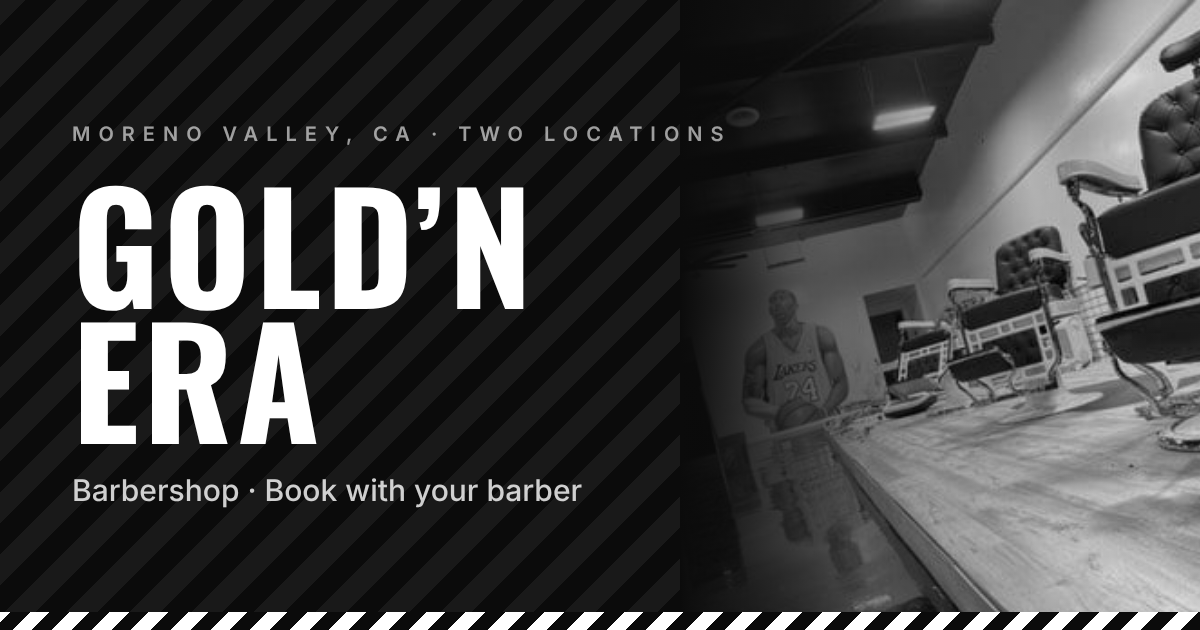
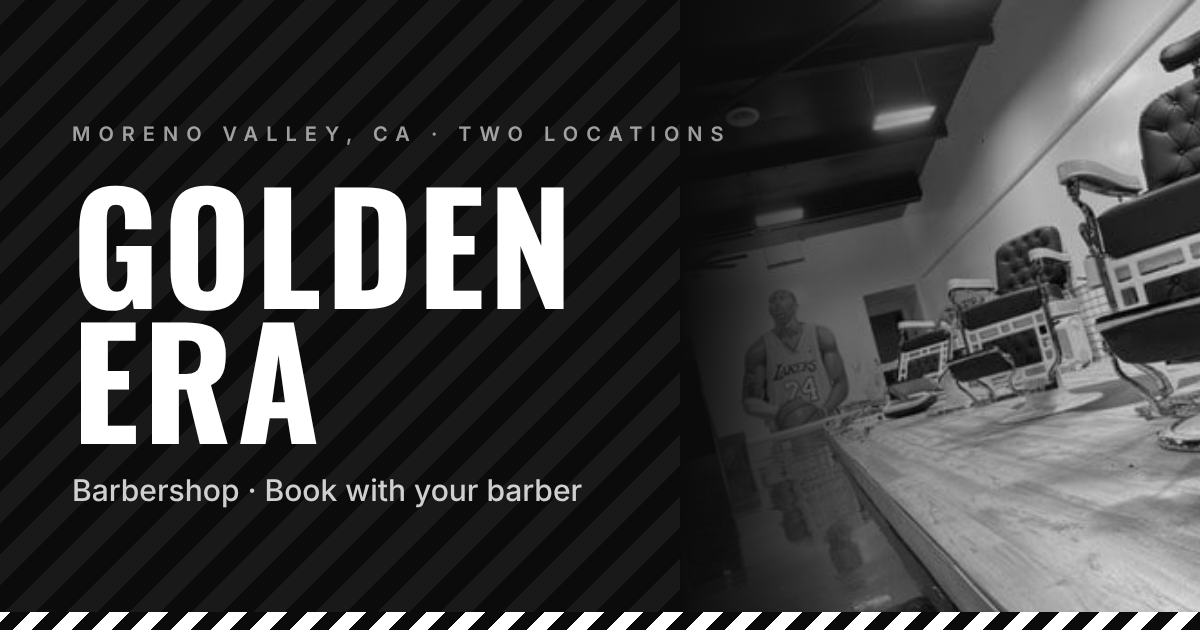
Rename brand to Golden Era Barbershop
Matches the shop's existing name and logo. Updates the header wordmark,
hero, page titles, link preview image and alt text. The repo and Worker
names stay as they are.

Claude-Session: https://claude.ai/code/session_01E3N2ox5rUphahnVQbjTReu

Changed region(s): [[0.3392, 0.3016, 0.4933, 0.5127]]

diff --git a/src/lib/shop.ts b/src/lib/shop.ts
@@ -36,8 +36,8 @@ export type Review = {
 export const siteUrl = (process.env.NEXT_PUBLIC_SITE_URL ?? "http://localhost:3000").replace(/\/$/, "");
 
 export const brand = {
-  name: "Gold'n Era Barbershop",
-  wordmark: "Gold'n Era",
+  name: "Golden Era Barbershop",
+  wordmark: "Golden Era",
   tagline: "Classic cuts. Clean fades. Two shops in Moreno Valley.",
   city: "Moreno Valley, CA",
 };

diff --git a/src/app/page.tsx b/src/app/page.tsx
@@ -138,7 +138,7 @@ export default function Home() {
               {brand.city} · Two locations
             </p>
             <h1 className="mt-6 font-display text-6xl font-bold uppercase leading-[0.9] tracking-wide sm:text-8xl">
-              Gold&rsquo;n
+              Golden
               <br />
               Era
             </h1>

diff --git a/src/app/signup/page.tsx b/src/app/signup/page.tsx
@@ -1,7 +1,7 @@
 import type { Metadata } from "next";
 import { ComingSoon } from "@/components/ComingSoon";
 
-export const metadata: Metadata = { title: "Sign up | Gold'n Era Barbershop" };
+export const metadata: Metadata = { title: "Sign up | Golden Era Barbershop" };
 
 export default function SignupPage() {
   return (

diff --git a/src/app/login/page.tsx b/src/app/login/page.tsx
@@ -1,7 +1,7 @@
 import type { Metadata } from "next";
 import { ComingSoon } from "@/components/ComingSoon";
 
-export const metadata: Metadata = { title: "Log in | Gold'n Era Barbershop" };
+export const metadata: Metadata = { title: "Log in | Golden Era Barbershop" };
 
 export default function LoginPage() {
   return (

diff --git a/README.md b/README.md
@@ -1,6 +1,6 @@
-# Gold'n Era Barbershop
+# Golden Era Barbershop
 
-Website and booking platform for Gold'n Era Barbershop, a booth-rent shop in Moreno Valley, CA. Built by ProlificX.
+Website and booking platform for Golden Era Barbershop, a booth-rent shop in Moreno Valley, CA. Built by ProlificX.
 
 ## Stack
 - Supabase: database, auth, storage
